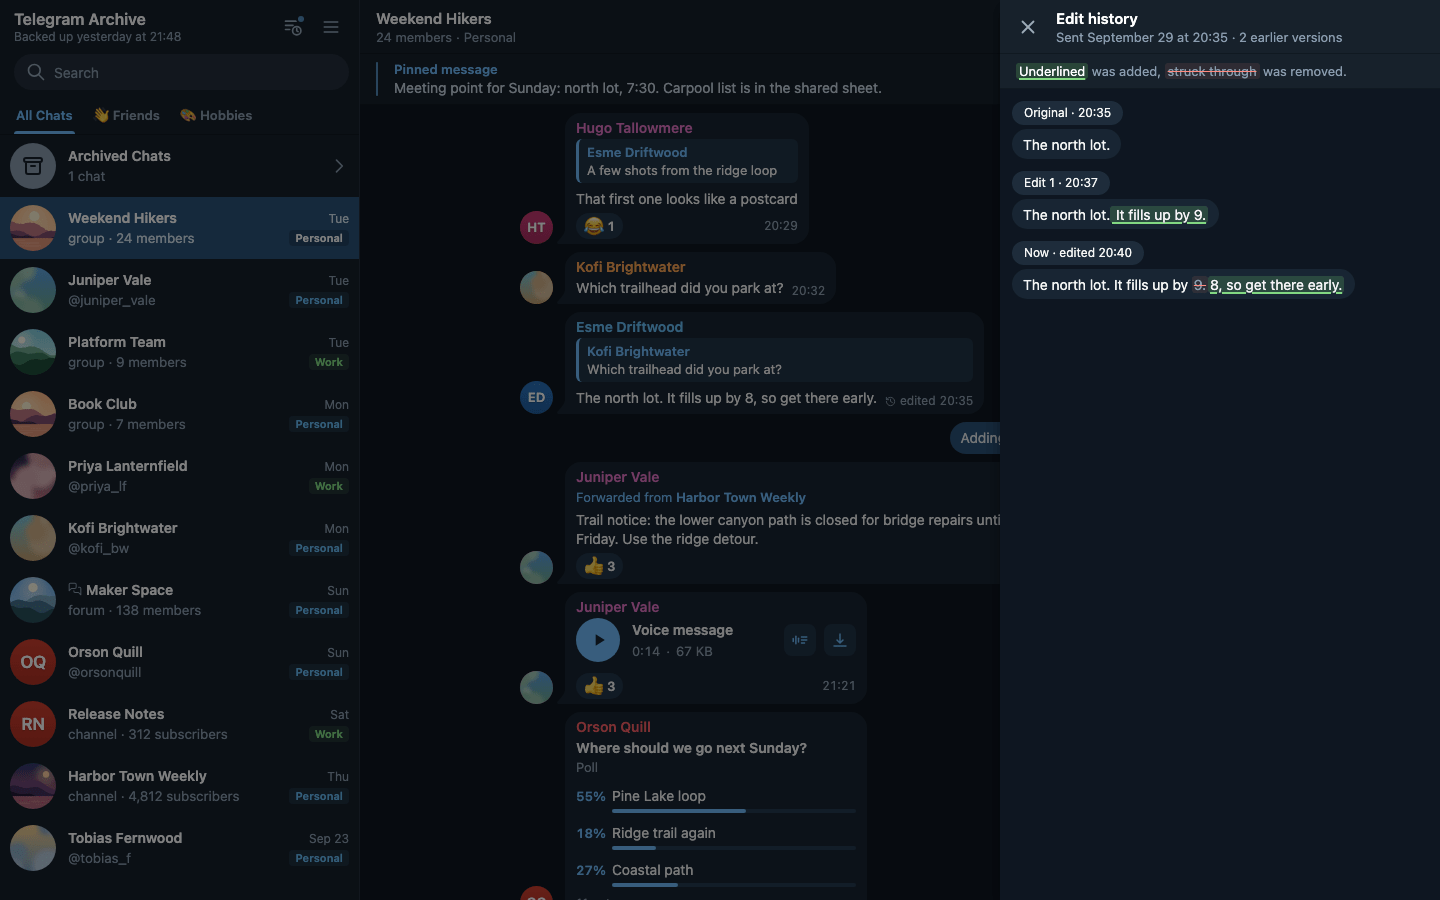
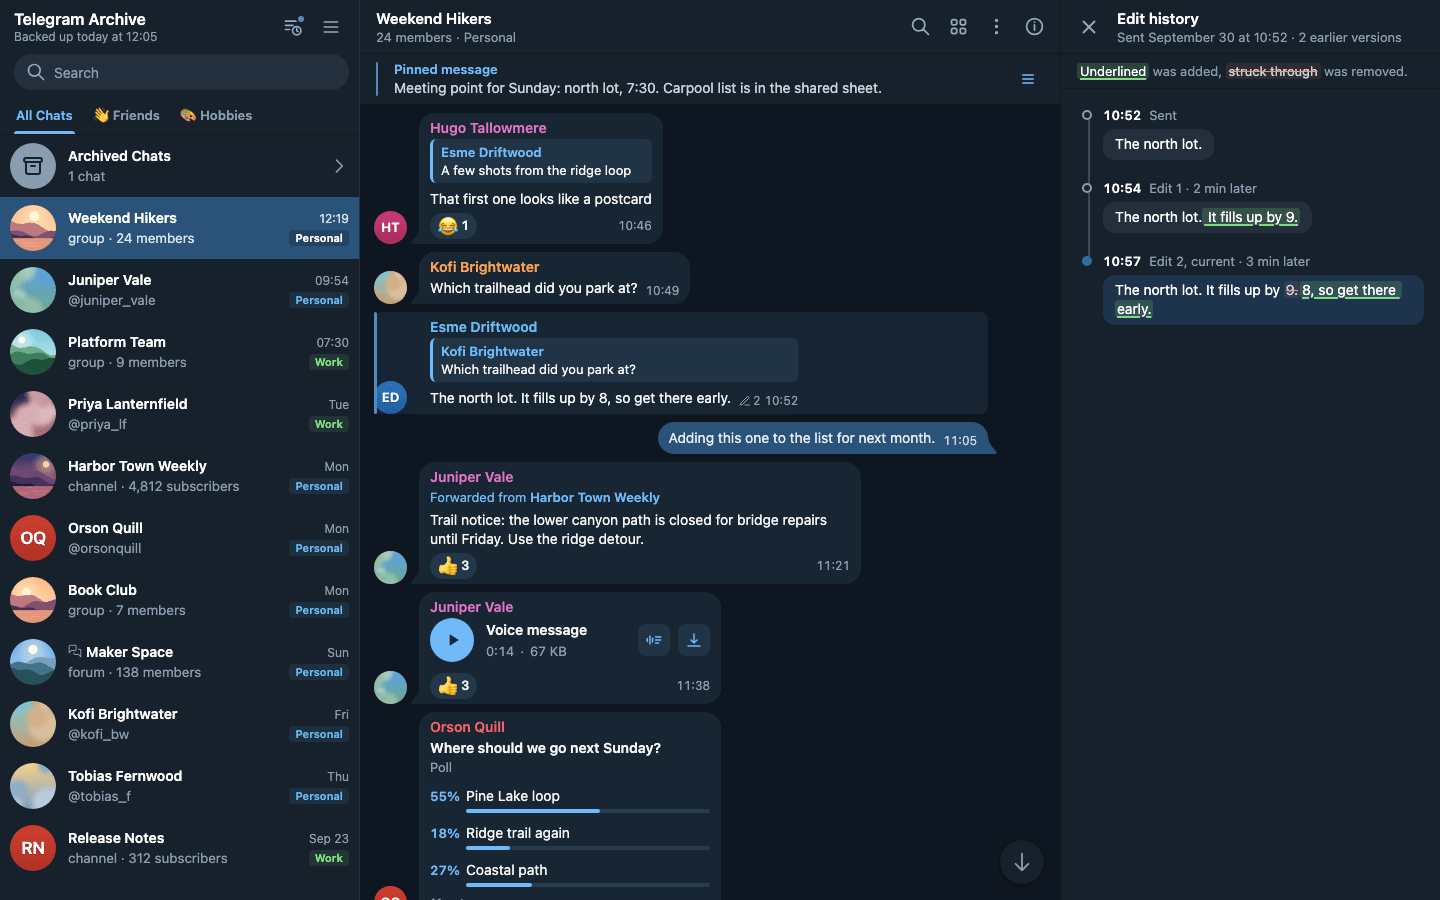
docs(viewer): edit screenshots and docs for the new history

Changed region(s): [[0.0, 0.0, 0.6875, 1.0], [0.6875, 0.0, 1.0, 0.3733], [0.1875, 0.6533, 0.25, 0.6844]]

diff --git a/docs/viewer/using-the-viewer.md b/docs/viewer/using-the-viewer.md
@@ -135,11 +135,17 @@ Voice messages and other audio can carry a transcript that opens under the playe
 
 Reactions show as chips with the emoji and, when above one, the count.
 
-An edited message shows "edited" before its time, as Telegram does. When the archive kept earlier texts, a small history mark comes before the word and the word is a button; its tooltip gives the edit time and how many earlier versions were kept. When the archive did not see the earlier text, the tooltip says so. Click the button to open the **Edit history**. It shows the original, each edit and the current text as bubbles, oldest first, each labelled with its time, and with its day when that is not the day the message was sent. The words each edit added are underlined on a green tint and the words it removed are struck through, and a key under the header says so. It lists up to 100 earlier texts. On a phone it opens as a page with a back arrow.
+An edited message shows a small pencil before its time, with the number of earlier texts the archive kept: a pencil and "2" before 08:52 means two earlier versions. The time is still the time it was sent. A message Telegram marks as edited but whose earlier text the archive never saw shows the pencil alone. The pencil's name, read by a screen reader and shown when you peek, gives the time of the last edit by Telegram's clock, for example "Edited at 08:57, 2 earlier versions kept", or "Edited on Oct 1 at 09:05" when the edit came on a later day.
+
+Rest the pointer on the pencil, reach it with <kbd>Tab</kbd>, or press and hold it on a phone, to peek at the text before the last edit, with the time it was written and the words that edit removed struck through. **See all 3 versions** opens the history. The peek closes when you move away, tap elsewhere or press <kbd>Esc</kbd>.
+
+![A popover over the pencil: "Edited at 10:57, 2 earlier versions kept", the text before the last edit and See all 3 versions](../images/screenshots/edit-peek.png)
+
+Click the pencil to open the **Edit history**. On a wide screen it opens beside the chat, which stays readable, and the message it belongs to is highlighted there. On a phone it opens as a sheet from the bottom, with the message above it. The versions run down a timeline, oldest first: "08:52 Sent", "08:54 Edit 1 · 2 min later", "08:57 Edit 2, current · 3 min later", with the date when an edit came on another day. Each text sits on a card, the current one tinted. The words each edit added are underlined on a green tint and the words it removed are struck through, and a key under the header says so. It lists up to 100 earlier texts. <kbd>Esc</kbd> or the cross closes it, and focus goes back to the pencil. A message with the pencil alone opens the history too, which says the archive did not see an earlier version.
 
 === "Telegram Day"
 
-    ![The edit history with the words each edit changed](../images/screenshots/edit-history.png)
+    ![The edit history beside the chat, with the edited message highlighted and the versions on a timeline](../images/screenshots/edit-history.png)
 
 === "Telegram Night"
 
@@ -147,7 +153,13 @@ An edited message shows "edited" before its time, as Telegram does. When the arc
 
 === "Phone"
 
-    ![The edit history as a page on a phone](../images/screenshots/edit-history-mobile.png){ width="300" }
+    ![The edit history as a sheet from the bottom of a phone, under the edited message](../images/screenshots/edit-history-mobile.png){ width="300" }
+
+To see every edited message of a chat, open **More actions** and choose **Edited messages**, under **Deleted messages**. The item shows the chat's count and is hidden when the chat has none. It opens the chat search in an **Edited only** mode, the same way as **Deleted only**: the chat shows only its edited messages, newest first, with their days, each headed "Edited · 08:57" and **Show in chat**. The search field narrows them further, and the pressed **Edited only** chip, the search's close button and <kbd>Esc</kbd> leave the mode. On a phone, the **Edited messages** row of the chat's info panel does the same. A message counts as edited when Telegram marks it or the archive kept an earlier version of it, so the count, the list and the pencils agree.
+
+=== "The menu"
+
+    ![More actions with Deleted messages and Edited messages, each with its count](../images/screenshots/edited-menu.png)
 
 ### Deleted messages
 
@@ -259,7 +271,7 @@ The info panel shows the open chat, in rows the way Telegram's info page writes 
 - **Earlier photos**: the profile photos the archive recorded before the current one. Each circle's tooltip says when the archive saw it. Click one, or the avatar, to page through them all in the lightbox, the current photo first.
 - description or bio, username and Telegram ID
 - the account tags, when more than one account is visible
-- **In the archive**: messages, media files, **Media size** (every media file of the chat, downloaded or not), **Deleted messages** and **Edited messages** (deleted in Telegram or edited, which the archive kept), and the oldest message. Click the oldest message to jump to it.
+- **In the archive**: messages, media files, **Media size** (every media file of the chat, downloaded or not), **Deleted messages** and **Edited messages** (deleted in Telegram or edited, which the archive kept), and the oldest message. Click **Deleted messages** or **Edited messages** to list them in the chat, and the oldest message to jump to it.
 - shortcuts into the shared media
 
 With the panel open, click a message to select it. On a touch screen, or in a window under 768 px wide, tap a message's time or its "deleted" mark instead: the panel opens on that message. The panel then also shows:
@@ -429,7 +441,7 @@ After you upgrade the viewer, reload any open tabs or app windows. An open page 
 | Key | Where | Does |
 |-----|-------|------|
 | <kbd>Esc</kbd> | search field | clears the field, then leaves it |
-| <kbd>Esc</kbd> | info panel, lightbox, edit history, Jump to date, sender details, What changed, main menu, More actions, dialogs | closes it |
+| <kbd>Esc</kbd> | info panel, lightbox, edit history, the peek at an edit, Jump to date, sender details, What changed, main menu, More actions, dialogs | closes it |
 | <kbd>Up</kbd> <kbd>Down</kbd> | main menu, More actions | moves between rows |
 | <kbd>Up</kbd> <kbd>Down</kbd> | search results | moves between chats and messages |
 | <kbd>Up</kbd> <kbd>Down</kbd> | open info panel | selects the previous or next message |
@@ -439,6 +451,6 @@ After you upgrade the viewer, reload any open tabs or app windows. An open page 
 | <kbd>Left</kbd> <kbd>Right</kbd> | focused resize handle | resizes the pane by 16 px |
 | <kbd>Enter</kbd> | search results | opens the highlighted result |
 | <kbd>Enter</kbd> <kbd>Space</kbd> | spoiler, round video | reveals the spoiler, toggles the sound |
-| <kbd>Tab</kbd> | Jump to date, sender details, edit history, lightbox | stays inside the dialog |
+| <kbd>Tab</kbd> | Jump to date, sender details, edit history on a phone, lightbox | stays inside the dialog |
 
 There are no single-letter shortcuts such as `j` and `k`.

diff --git a/docs/CHANGELOG.md b/docs/CHANGELOG.md
@@ -14,6 +14,7 @@ For upgrade instructions, see [Upgrading](#upgrading) at the bottom.
 - **Match system and four new themes.** The theme picker gains Match system, the new default, plus Telegram Day, iOS Night, Minimal and Graphite, for twelve entries: Match system, Telegram Day, Telegram Night, iOS Night, Slate, Minimal, Graphite, AMOLED, Forest, Aubergine, Day and Paper. Telegram Day draws Telegram's line pattern over a green gradient, and iOS Night and Slate draw a dark version of it. The pattern ships with the viewer as a static file. See [Themes and wallpaper](viewer/themes.md).
 
 ### Changed
+- **An edited message shows how many earlier texts the archive kept, peeks at the last one, and opens its history beside the chat.** The word "edited" in the time row gives way to a pencil and the number of earlier versions kept, and its name says when the last edit was ("Edited at 08:57, 2 earlier versions kept"), so the time beside it reads as the send time it is. Hovering, focusing or long-pressing the pencil shows the text before the last edit with what that edit removed struck through, and **See all 3 versions**. A click opens the edit history as a panel beside the chat on a wide screen, with the message highlighted in the chat, and as a bottom sheet on a phone; the versions run down a timeline ("08:54 Edit 1 · 2 min later"), removed words in a darker neutral that keeps 4.5:1 on every theme. **More actions**, **Edited messages** (the info panel's row on a phone) opens the chat search in an **Edited only** mode. `/api/chats/{ref}/messages` takes `edited_only=true`, a read-only filter that keeps the viewer's chat and account restrictions; a message counts as edited when Telegram marks it or the archive kept an earlier version, and the chat's `edited_messages` figure now counts the same. See [Reactions, edits and deletions](viewer/using-the-viewer.md#reactions-edits-and-deletions).
 - **A deleted message folds to one line, and the chat menu lists a chat's deletions.** A deleted message now shows as a red-tinted line in its place, "Deleted photo · 21:59 · Show". **Show** opens it with "Deleted · 21:59" at the head of the bubble, and **Hide** folds it again; a reply quote, a search hit, a link or any other jump opens its target by itself. The time is when the archive noticed the deletion, with the date when that is another day, and the time in the bubble's corner is the send time again. It used to sit next to "deleted", where it read as the deletion time. The red tint is stronger in every theme, and every text keeps 4.5:1 on it. **More actions**, **Deleted messages** opens the chat search in a **Deleted only** mode that lists the chat's deletions, each with **Show in chat**. `/api/chats/{ref}/messages` takes `deleted_only=true`, a read-only filter that keeps the viewer's chat and account restrictions. See [Deleted messages](viewer/using-the-viewer.md#deleted-messages).
 - **The viewer follows the system light or dark setting by default.** The new default theme, Match system, shows Telegram Day (a green wallpaper with a line pattern, white and light green bubbles) on a light system and Telegram Night on a dark one, and it switches while the page is open. Browsers that never picked a theme move from Slate to Match system; a saved choice and every `?theme=` link keep working, and `VIEWER_DEFAULT_THEME` can still pin one theme. Slate, Telegram Night, Day and Paper are retuned, every theme keeps text at 4.5:1 or more, message bubbles are opaque everywhere, and the browser bar takes the theme's header colour. Text uses the system font stack, as Telegram's own apps do, and the viewer no longer loads or ships the Inter font. `VIEWER_CHAT_BACKGROUND` now replaces the theme's own wallpaper. The chat info panel counts the deleted and edited messages the archive kept for that chat, and `/api/chats/{ref}/stats` returns them as `deleted_messages` and `edited_messages`. The photo viewer shows the caption and a **Show in chat** button, also for a photo opened from Shared Media (`/api/chats/{ref}/media` items now carry the message's `text`, `is_deleted` and `deleted_at`). See [Themes and wallpaper](viewer/themes.md).
 - **Chats read like Telegram.** Bubbles in a run join with tight corners, and the last one carries the tail and the sender's photo. A run ends when the sender changes, at a new day, or after a pause of more than 15 minutes, so it follows the turns of the conversation. The time sits at the end of the last line, photos and albums run to the bubble's edge, and stickers and round videos stand on the wallpaper. Polls show their results as Telegram does, with the vote count on the time's line, and a voice message reads "Voice message" over its duration and size, with its transcript and download buttons side by side. Messages stay in a 760px column on a wide screen. The chat list rows are shorter: a group or a channel shows its kind and member count (`channel · 4,210 subscribers`) and a private chat the person's username, in place of the id. The chat header is one bar with search, shared media and the info panel, the member count, or the kind of chat, under the name, and export and expand-all-transcripts behind a **More actions** menu. Date pills leave out the current year. The pinned bar drops the pinned message's time, folder tabs drop their chat count (it moved to the tooltip) and hide inside Archived Chats, and Shared Media shows denser tiles under one header with its tabs, leaving out an empty tab. The chat's figures moved to the info panel. Photos open from the keyboard, and on a phone the photo viewer moves with a swipe.

diff --git a/docs/design/edited-messages.md b/docs/design/edited-messages.md
@@ -1,5 +1,7 @@
 # Edited messages: how they look today, and options to choose from
 
+> **Decision: A + C + E + F.** The meta row shows a pencil and the number of earlier versions kept (A), and its name and tooltip give the time of the last edit ("Edited at 08:57, 2 earlier versions kept"), which folds G's point into A. Hovering, focusing or long-pressing the pencil peeks at the text before the last edit (C). A click opens the history as a panel beside the chat, or a bottom sheet on a phone, with the versions on a timeline (E). "Edited messages", under "Deleted messages" in the chat menu, opens the chat search in an "Edited only" mode backed by a read-only `edited_only` filter (F). A message counts as edited when Telegram marks it or the archive kept an earlier version, so the chat's count, the list and the pencils agree. The removed words take the darker neutral n300, which keeps 4.5:1 on the cards in every theme (the n400 of the E mockup did not on Minimal, AMOLED, Forest and Paper). The capture changes below are not part of it. What follows is the proposal as it was written.
+
 When the archive keeps an earlier version of a message, the viewer marks the bubble with a small "edited" beside the time. A click on it opens the edit history, a drawer that shows every kept text with its changes marked. It works, but it is easy to miss: the mark is the smallest text in the bubble, it does not say how many edits there were, and the time next to it is the send time, not the edit time. This document says what the archive can and cannot know about an edit, shows the current look, and shows seven options rendered on the real viewer, so we can pick.
 
 Every option is an override stylesheet in its folder under [`edited-messages/`](edited-messages/), loaded into the viewer after its own styles, with a small script where the option needs an element the viewer does not draw yet. The scripts share [`edited-messages/shared.js`](edited-messages/shared.js), which reads the app's own message list and calls the versions endpoint the viewer already uses. We changed no template or app code for the pictures. [`rig/shoot.mjs`](rig/shoot.mjs) took them against the demo archive from [`scripts/generate_dummy_db.py`](../../scripts/generate_dummy_db.py), which has fake chats and people. The edited message is a reply in a group, sent at 08:52 and edited at 08:54 and 08:57, so it has two earlier versions. Desktop pictures are 1440 by 900, cropped to the message column; phone pictures are 390 by 844 at 2x, kept whole. Each option is shown in Telegram Day and Telegram Night.

diff --git a/docs/reference/api.md b/docs/reference/api.md
@@ -190,7 +190,7 @@ All of these need a login that can see the chat.
 
 | Method and path | Parameters | Response |
 |-----------------|-----------|----------|
-| `GET /api/chats/{chat_ref}/messages` | `limit` default 50, 1 to 500. `offset`. `search`. `topic_id`. `deleted_only`, default false. Cursor: `before_date` plus `before_id`, `before_id` alone, or `after_id`. See [Paging through messages](#paging-through-messages). | A JSON array of messages, newest first |
+| `GET /api/chats/{chat_ref}/messages` | `limit` default 50, 1 to 500. `offset`. `search`. `topic_id`. `deleted_only` and `edited_only`, default false. Cursor: `before_date` plus `before_id`, `before_id` alone, or `after_id`. See [Paging through messages](#paging-through-messages). | A JSON array of messages, newest first |
 | `GET /api/chats/{chat_ref}/messages/{message_id}/versions` | `limit` default 100, up to 500 | Earlier versions of an edited message |
 | `GET /api/chats/{chat_ref}/pinned` | None | Pinned messages, newest first |
 | `GET /api/chats/{chat_ref}/messages/by-date` | `date` as `YYYY-MM-DD`. `timezone` as an IANA name, optional; defaults to the viewer's configured timezone. `topic_id`. | The first message on or after local midnight of that day, or 404 |
@@ -215,6 +215,13 @@ A lone `before_id=N` returns messages with ids below N. `after_id=N` returns mes
 ```bash
 curl -s -b jar.txt \
   'http://localhost:8000/api/chats/<ref>/messages?limit=50&offset=0&deleted_only=true'
+```
+
+`edited_only=true` keeps only the edited messages, newest first, the same way. A message counts as edited when Telegram marks it (`edit_date` is set) or the archive kept at least one earlier version of it (`version_count` above 0): either can hold without the other, for a message first archived after its edit or an earlier empty text the archive filled in. It is the rule the viewer's pencil follows, and `edited_messages` in `/api/chats/{chat_ref}/stats` counts the same rows. Like `deleted_only`, it is a read that combines with `search`, `topic_id` and the cursors and stays inside the chat the ref names.
+
+```bash
+curl -s -b jar.txt \
+  'http://localhost:8000/api/chats/<ref>/messages?limit=50&offset=0&edited_only=true'
 ```
 
 Each message nests its media. `media.id` is the media key, `{message_id}_{type}`, and `media.url` is `/media/{chat_ref}/{key}`. `sender_avatar_url` points at `/media/avatar/{chat_ref}/{message_id}`. Transcripts are attached when transcription is on.

diff --git a/docs/configuration/listener.md b/docs/configuration/listener.md
@@ -58,7 +58,7 @@ Media waits for the next scheduled backup by default. With `LISTEN_NEW_MESSAGES_
 
 The listener applies an edit only when the text changed and the edit is not older than the stored version. An edit that carries no date is applied only when the message was never edited before. Edits to messages that are not in the archive are skipped.
 
-When an edit is applied, the previous text is saved as a version. The viewer marks the message "edited", with the number of saved versions in its tooltip, and lets you open the earlier texts.
+When an edit is applied, the previous text is saved as a version. The viewer marks the message with a pencil and the number of saved versions, says when the last edit was, and lets you open the earlier texts. See [Reactions, edits and deletions](../viewer/using-the-viewer.md#reactions-edits-and-deletions).
 
 ![The edit history of a message edited twice](../images/screenshots/edit-history.png)
 
